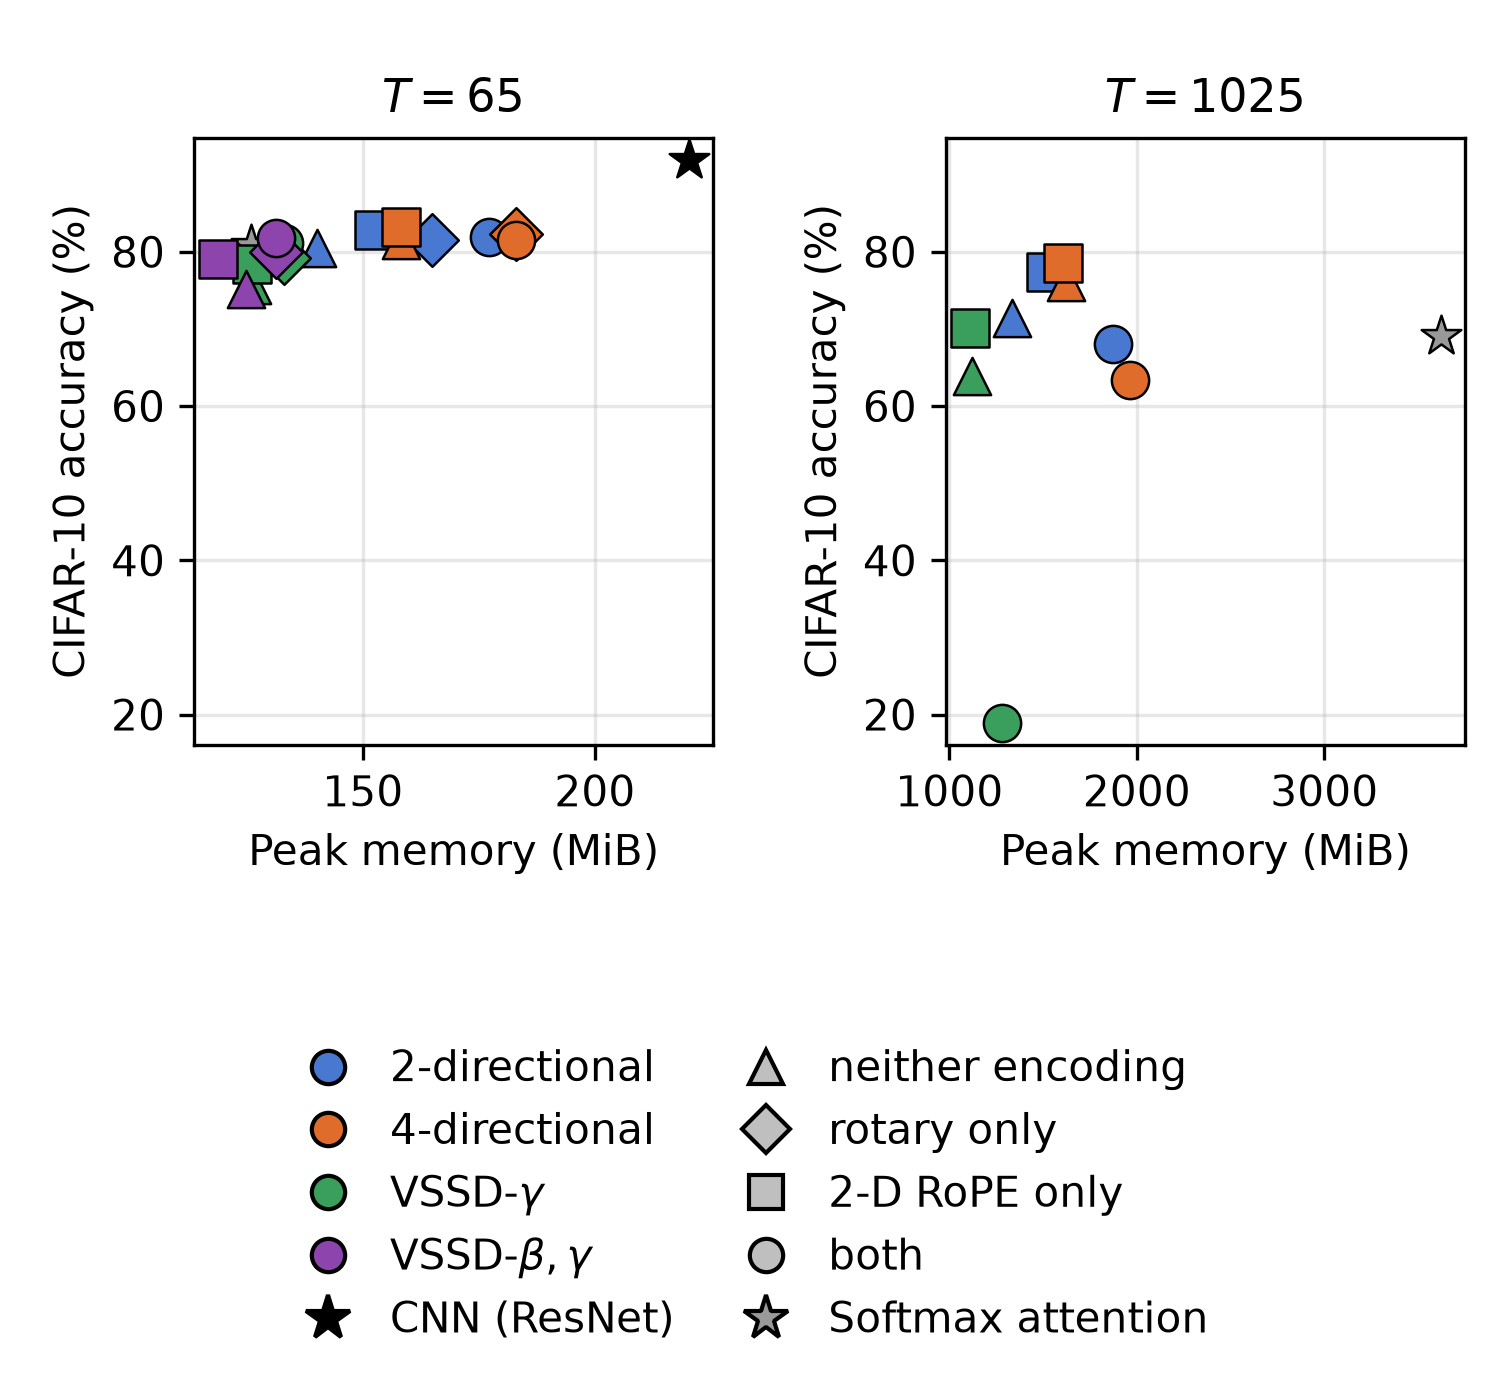
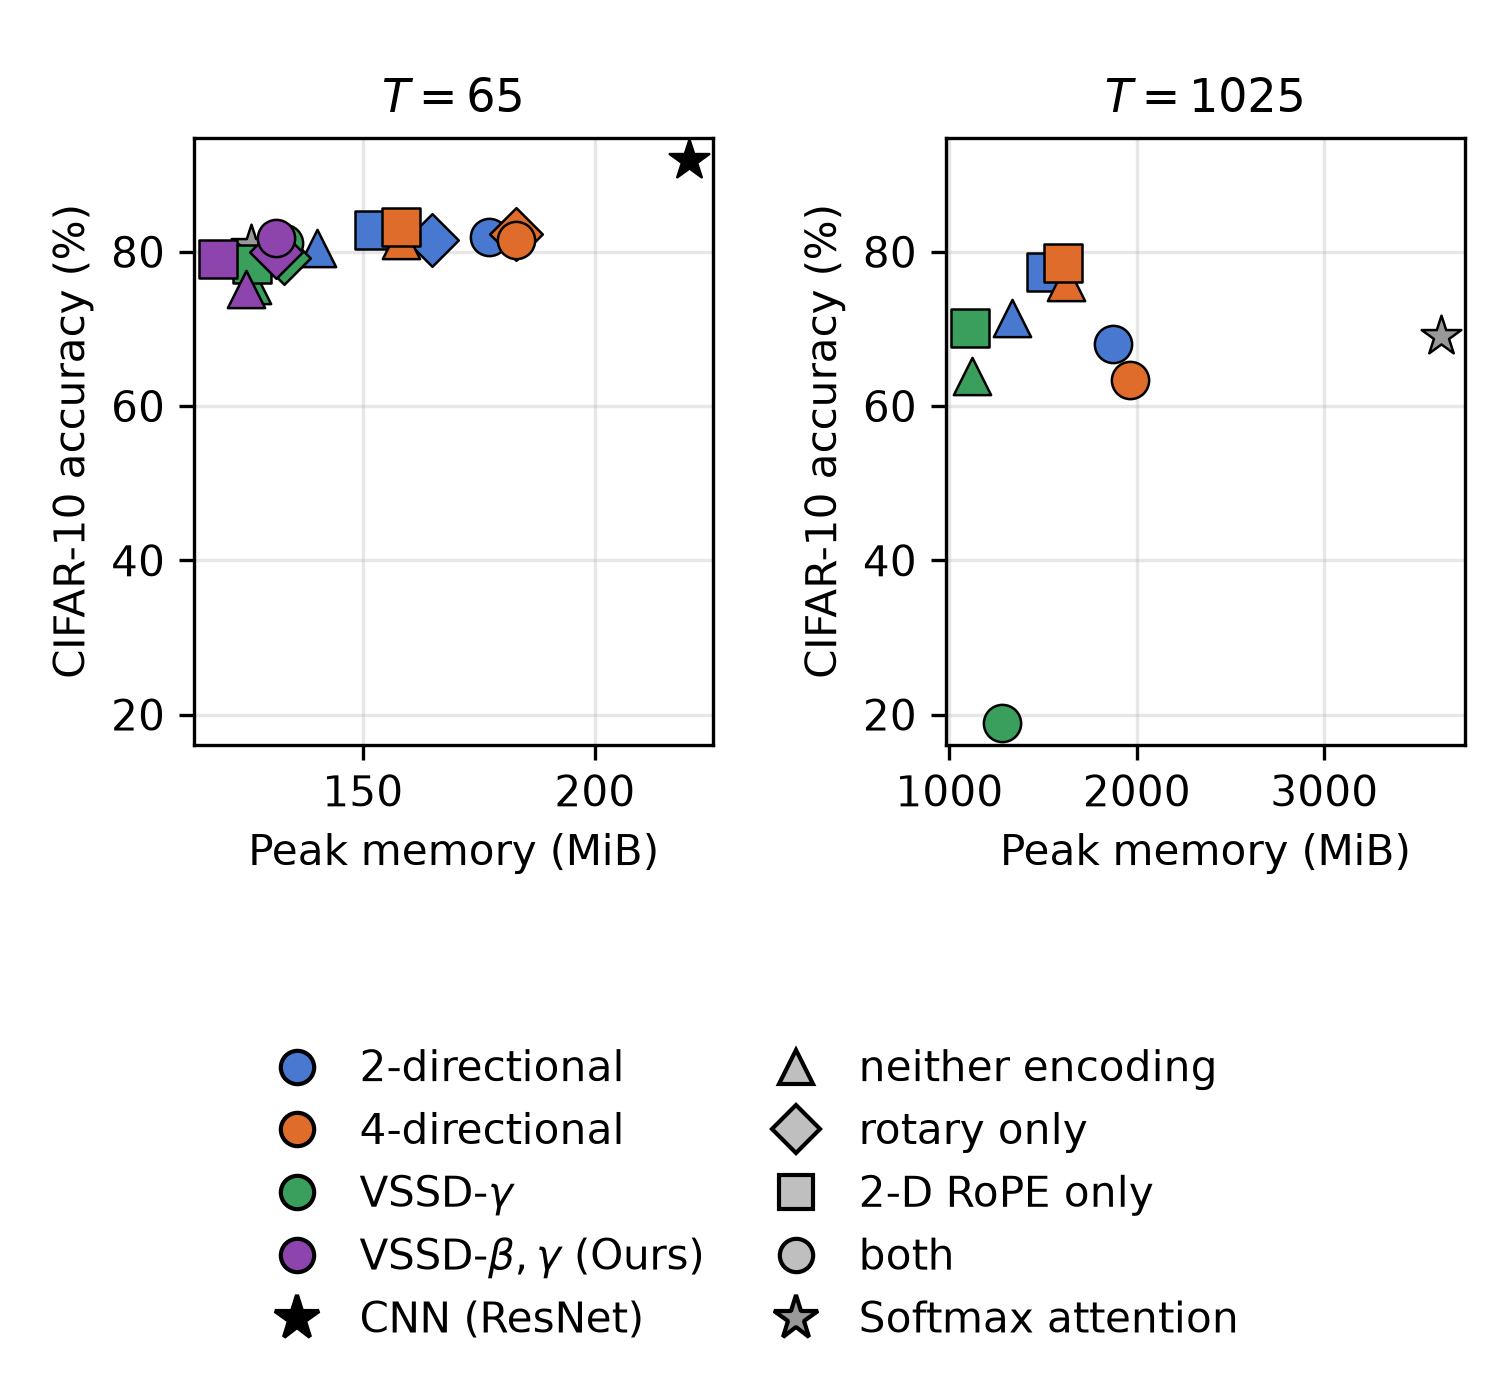
plot: mark VSSD-beta,gamma as ours in the accuracy-vs-memory legend
The legend named four operators with nothing distinguishing the one this work
contributes, so a reader had to already know which was ours to read the plot. Now
"VSSD-$\beta,\gamma$ (Ours)".

OP_LABELS feeds the plot legend only -- the table keys off the dict key, not the label --
so the tables in this doc and in the paper are byte-identical after the change. I
regenerated with --paper-out and diffed tab_cifar_body.tex to confirm that rather than
assume it.

The legend widens by about one word. Its three columns re-centre with room to spare;
checked on the rendered figure, not just the source.

Note this is a shared generator: the same figure is paper Fig 7 and slide 15 of the
talk, both updated in paper-vmamba3.

Doc rebuilt, 39 pages, no errors.

Changed region(s): [[0.4926, 0.7478, 0.8313, 0.9659], [0.1847, 0.7478, 0.4618, 0.9659]]

diff --git a/scripts/make_ablation_table.py b/scripts/make_ablation_table.py
@@ -58,7 +58,7 @@ OP_LABELS = {
     "2-dir SSD": "2-directional",
     "4-dir SSD": "4-directional",
     r"VSSD-$\gamma$": r"VSSD-$\gamma$",
-    r"VSSD-$\beta,\gamma$": r"VSSD-$\beta,\gamma$",
+    r"VSSD-$\beta,\gamma$": r"VSSD-$\beta,\gamma$ (Ours)",
 }
 BASE_COLOURS = {"CNN (ResNet)": "black", "Softmax attention": "0.6"}
 
